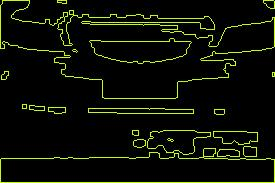
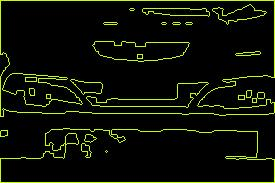
refactoring methods

diff --git a/src/contours.js b/src/contours.js
@@ -3,7 +3,7 @@ const { JSDOM } = require('jsdom');
 const state = require('./state.js');
 const { writeFileSync } = require('fs');
 
-async function run() {
+function findContours() {
     const content = state.getContent();
     const image = content.image;
 
@@ -15,24 +15,38 @@ async function run() {
 
     cv.findContours(image, contours, hierarchy, cv.RETR_TREE, cv.CHAIN_APPROX_NONE);
     content.contours = contours;
-
-    drawContours();
-    function drawContours() {
-        let dst2 = cv.Mat.zeros(image.rows, image.cols, cv.CV_8UC3);
-        
-        for (let i = 0; i < contours.size(); ++i) {
-            let color = new cv.Scalar(200, 255,0);
-            
-            cv.drawContours(dst2, contours, i, color, 1, cv.LINE_8, hierarchy, 100);
-            cv.drawContours(image, contours, i, color, 1, cv.LINE_8, hierarchy, 100);
-        }
-
-        const canvas = createCanvas(image.cols, image.rows);
-        cv.imshow(canvas, image);
-        cv.imshow(canvas, dst2);
-        writeFileSync('./out/output_contours.png', canvas.toBuffer('image/jpeg'));
-    }
-
+    content.hierarchy = hierarchy;
 }
 
-module.exports = run;
+function drawContours() {
+    const content = state.getContent();
+    const image = content.image;
+    const contours = content.contours;
+    const hierarchy = content.hierarchy;
+
+    for (let i = 0; i < contours.size(); ++i) {
+        let color = new cv.Scalar(200, 255,0);
+        cv.drawContours(image, contours, i, color, 1, cv.LINE_8, hierarchy, 100);
+    }
+}
+
+function drawContoursEmptyImage(outputFile) {
+    outputFile = outputFile || './out/output_contours.png';
+
+    let dst2 = cv.Mat.zeros(image.rows, image.cols, cv.CV_8UC3);
+    for (let i = 0; i < contours.size(); ++i) {
+        let color = new cv.Scalar(200, 255,0);
+        cv.drawContours(dst2, contours, i, color, 1, cv.LINE_8, hierarchy, 100);
+    }
+
+    const canvas = createCanvas(image.cols, image.rows);
+    cv.imshow(canvas, dst2);
+    writeFileSync(outputFile, canvas.toBuffer('image/jpeg'));
+    canvas.delete();
+}
+
+module.exports = {
+    findContours,
+    drawContours,
+    drawContoursEmptyImage
+}

diff --git a/src/output.js b/src/output.js
@@ -4,34 +4,31 @@ const { writeFileSync } = require('fs');
 const readline = require('readline-sync');
 const state = require('./state.js');
 
-async function output() {
+function output() {
     const content = state.getContent();
     const image = content.image;
     const outputFile = askOutputFile();
-    
     const canvas = createCanvas(image.cols, image.rows);
     
-    prepareOutput();
-    writeOutput();
-    clearData();
+    cv.imshow(canvas, image);
+    writeFileSync(outputFile, canvas.toBuffer('image/jpeg'));
 
     function askOutputFile() {
         //return readline.question('Image output: ');
         return './out/output.png';
     }
-
-    function prepareOutput() {
-        cv.imshow(canvas, image);
-    }
-
-    function writeOutput() {
-        writeFileSync(outputFile, canvas.toBuffer('image/jpeg'));
-    }
-
-    function clearData() {
-        image.delete();
-        state.setContent({});
-    }
 }
 
-module.exports = output;
+function outputToFile(outputFile) {
+    const content = state.getContent();
+    const image = content.image;
+    const canvas = createCanvas(image.cols, image.rows);
+
+    cv.imshow(canvas, image);
+    writeFileSync(outputFile, canvas.toBuffer('image/jpeg'));
+}
+
+module.exports = {
+    output,
+    outputToFile
+}

diff --git a/src/input.js b/src/input.js
@@ -3,24 +3,22 @@ const { JSDOM } = require('jsdom');
 const state = require('./state.js');
 
 async function input() {
+    const imgPath = askImage();
+    const imageCanvas = await loadImageFromImgPath(imgPath);
+    const image = cv.imread(imageCanvas);
+
     const content = {};
-    content.imgPath = askImage();
-    content.imageCanvas = await loadImageFromImgPath();
-    content.imageInput = createImageCV();
-    content.image = content.imageInput;
+    content.imgPath = imgPath;
+    content.image = image;
     state.setContent(content);
 
     function askImage() {
         //return readline.question('Image input: ');
-        return './images/placa carro 1.jpg';
+        return './images/placa carro 3.jpg';
     }
 
-    async function loadImageFromImgPath() {
-        return loadImage(content.imgPath);
-    }
-
-    function createImageCV() {
-        return cv.imread(content.imageCanvas);
+    async function loadImageFromImgPath(imgPath) {
+        return loadImage(imgPath);
     }
 }
 

diff --git a/index.js b/index.js
@@ -13,14 +13,16 @@ async function start() {
     await setup();
     await input();
 
-    await rgbToGray();
+    rgbToGray();
     //await histogram.equalize();
-    await threshold();      // binarizar
-    await blur();           // tirar ruidos da imagem
+    threshold();      // binarizar
+    blur();           // tirar ruidos da imagem
 
-    await contours();
+    contours.findContours();
+    contours.drawContours();
 
-    await output();
+    output.output();
+    state.clear();
 }
 
 start();

diff --git a/src/threshold.js b/src/threshold.js
@@ -4,11 +4,11 @@ const state = require('./state.js');
 
 // TODO trocar por implementacao manual
 
-async function run() {
+function run() {
     const content = state.getContent();
     const image = content.image;
 
-    cv.threshold(image, image, 100, 255, cv.THRESH_BINARY);
+    cv.threshold(image, image, 90, 255, cv.THRESH_BINARY);
 }
 
 module.exports = run;

diff --git a/src/rgbToGray.js b/src/rgbToGray.js
@@ -4,7 +4,7 @@ const state = require('./state.js');
 
 // TODO trocar por implementacao manual
 
-async function run() {
+function run() {
     const content = state.getContent();
     const image = content.image;
 

diff --git a/src/state.js b/src/state.js
@@ -10,7 +10,12 @@ function getContent() {
     return stage;
 }
 
+function clear() {
+    stage = null;
+}
+
 module.exports = {
     setContent,
-    getContent
+    getContent,
+    clear
 };
